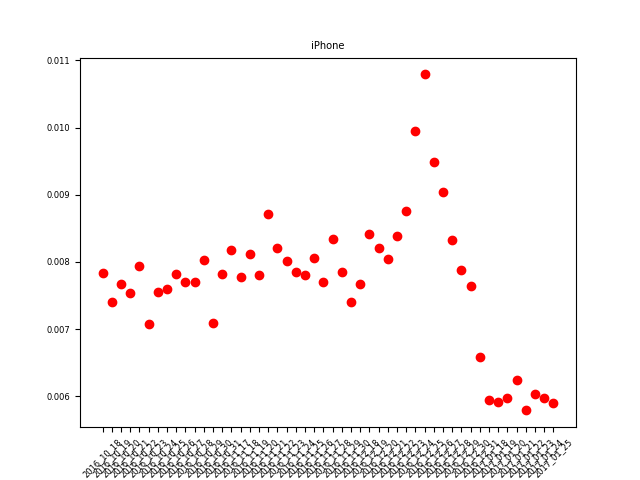
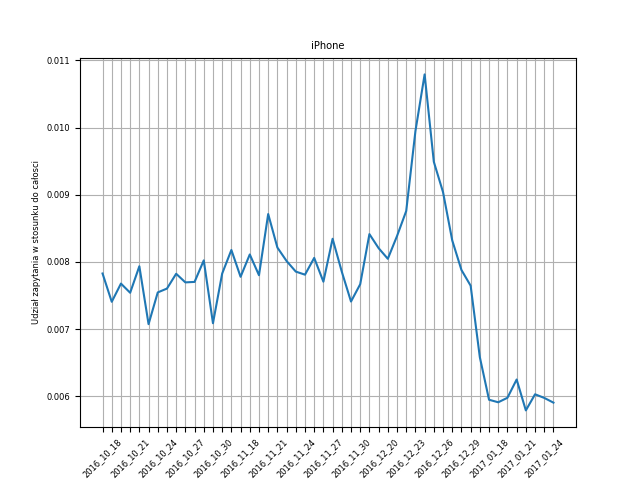
Fix categories plots

Changed region(s): [[0.1562, 0.125, 0.875, 0.875], [0.125, 0.9062, 0.9062, 1.0], [0.0312, 0.3438, 0.0625, 0.6875]]

diff --git a/DataNinja/Categories/AnalyzeCategoriesCount.py b/DataNinja/Categories/AnalyzeCategoriesCount.py
@@ -53,9 +53,21 @@ for i in range(0, categories_count):
                     #x.append(categories.loc[categories['category'] == categories_top50_category_per_count[i][1]]['Date'].values[j])
                 #y = [value for value in y if not math.isnan(value)]
                 #x = range(0,50)
-
+                fig = plt.figure()
+                ax = fig.add_subplot(111)
                 plt.rcParams.update({'font.size': 6})
                 plt.title(categories.loc[categories['category'] == categories_top50_category_per_count[i][1]]['name'].values[0])
-                plt.plot(x, y, 'ro')
+                ax.plot(x, y, '-')
                 plt.xticks(rotation=45)
+                ax.grid(True)
+                temp_ticks = []
+                for i in range(0, len(x)):
+                    if i % 3 == 0:
+                        temp_ticks.append(x[i])
+                    else:
+                        temp_ticks.append("")
+                ax.set_xticklabels(temp_ticks)
+                plt.ylabel("Udzia\u0142 zapytania w stosunku do ca\u0142osci")
+                plt.xlabel("Dzie\u0144")
                 plt.show()
+
